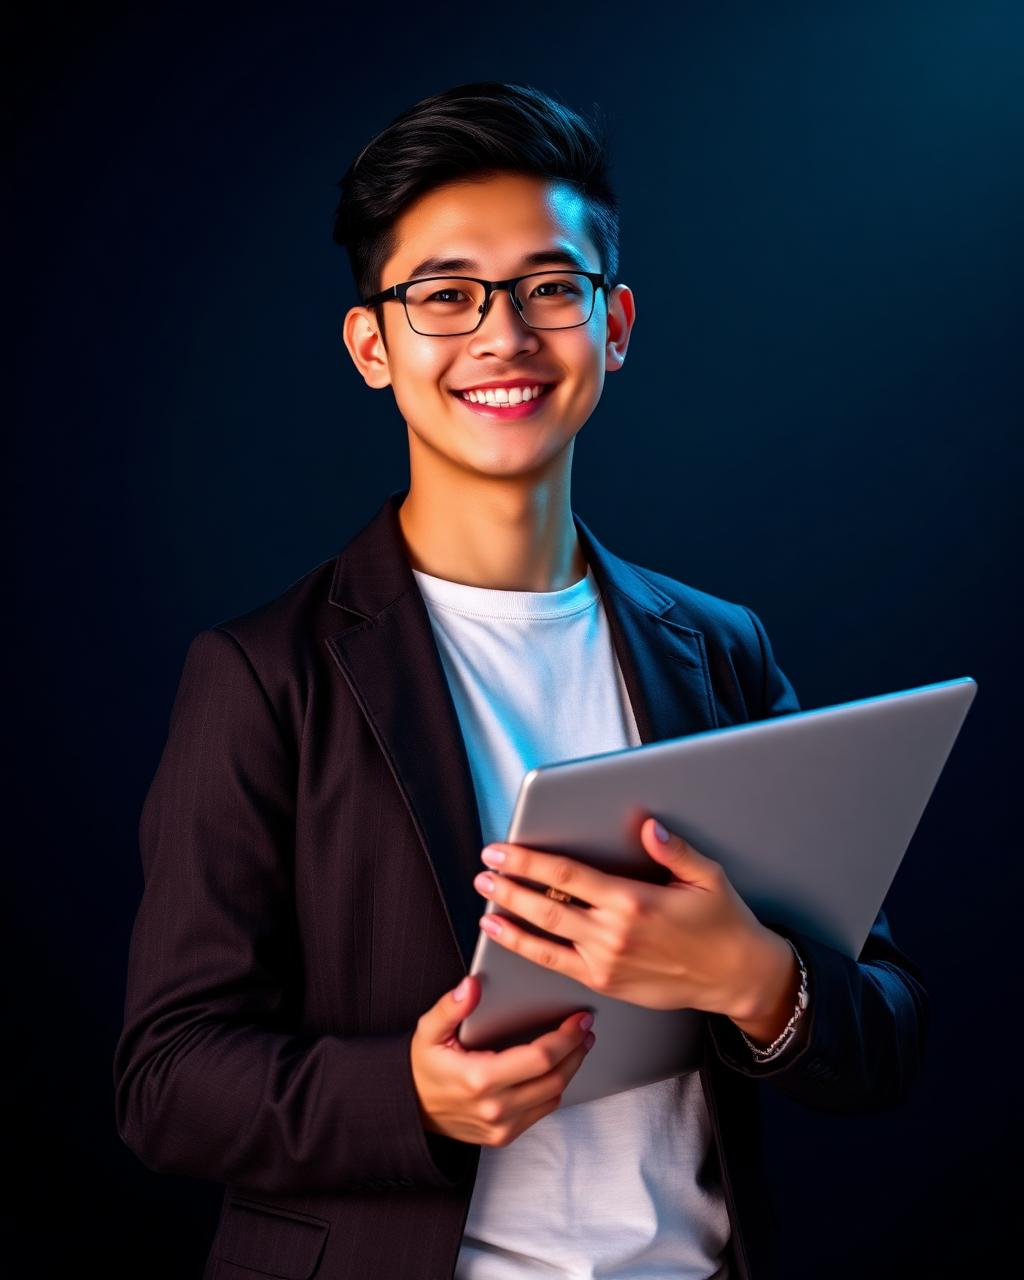
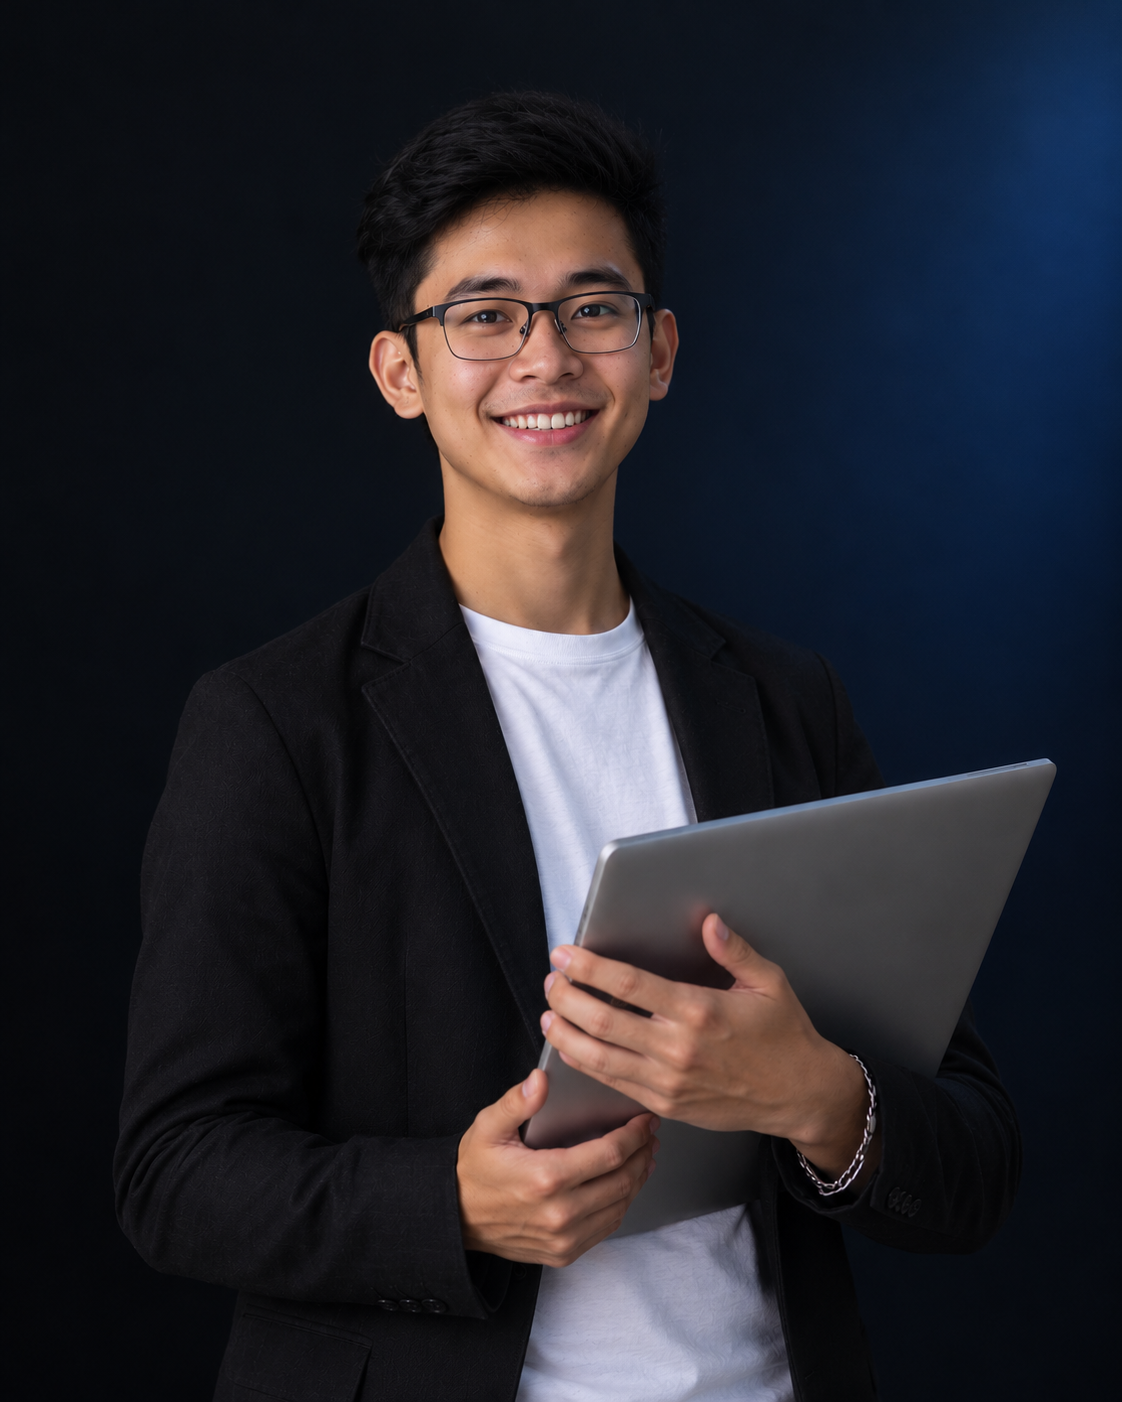
feat: real graduate photos with lightbox gallery in bitiruvchilar section

diff --git a/src/components/Projects.tsx b/src/components/Projects.tsx
@@ -1,49 +1,33 @@
-import { useState } from "react";
+import { useEffect, useState } from "react";
 import { useI18n } from "@/lib/i18n";
-import { Reveal, Stagger, Item, itemVariants } from "./Reveal";
-import { ArrowRight, X, Quote } from "lucide-react";
-import malika from "@/assets/malika.png";
-import azizbek from "@/assets/azizbek.png";
-import dilnoza from "@/assets/dilnoza.png";
-import sardor from "@/assets/sardor.png";
-import logoIcon from "@/assets/logo-icon.png";
+import { Stagger, Item, itemVariants } from "./Reveal";
+import { ArrowRight, X } from "lucide-react";
+import long from "@/assets/long.png";
+import long2 from "@/assets/long-2.png";
+import short from "@/assets/short.png";
+import short2 from "@/assets/short-2.png";
 
 const projects = [
-  {
-    id: 1,
-    img: malika,
-    tag: "Hozirda yirik ishlab chiqarish korxonasida bosh buxgalter",
-    title: "Malika Ahmedova",
-    review: "Finway Academy'da olgan bilimlarim hayotimni o'zgartirdi. Ustozlarim yordamida nafaqat nazariyani, balki amaliy buxgalteriyani ham mukammal o'rgandim. Hozirda yirik korxonada bosh buxgalter lavozimida ishlayapman."
-  },
-  {
-    id: 2,
-    img: azizbek,
-    tag: "1C dasturini mukammal o'rganib, xususiy firmada ish boshladi",
-    title: "Azizbek Karimov",
-    review: "1C dasturini o'rganish men uchun qiyin tuyulgandi, lekin bu yerda hammasi juda sodda tushuntirildi. Kursni tugatiboq ishga kirdim. Mentorlarga katta rahmat!"
-  },
-  {
-    id: 3,
-    img: dilnoza,
-    tag: "Noldan o'rganib, 3 oy ichida diplom va ishga ega bo'ldi",
-    title: "Dilnoza Mansurova",
-    review: "Buxgalteriya haqida hech qanday tushuncham yo'q edi. 3 oy ichida noldan balansgacha o'rgandim. Hozirda o'z ishimning ustasiman va yaxshi daromad topyapman."
-  },
-  {
-    id: 4,
-    img: sardor,
-    tag: "Super glavbux kursini bitirib, o'z konsaltingini ochdi",
-    title: "Sardor Olimov",
-    review: "Super glavbux kursi menga soliq optimallashtirish va murakkab hisob-kitoblarni o'rgatdi. O'z bilimlarimga ishonch hosil qilib, xususiy konsalting markazimni ochdim."
-  },
+  { id: 1, img: long, alt: "Finway bitiruvchisi 1", pos: "object-right" },
+  { id: 2, img: long2, alt: "Finway bitiruvchisi 2", pos: "object-center" },
+  { id: 3, img: short, alt: "Finway bitiruvchisi 3", pos: "object-center" },
+  { id: 4, img: short2, alt: "Finway bitiruvchisi 4", pos: "object-center" },
 ];
 
 export function Projects() {
   const { t } = useI18n();
-  const [selectedGrad, setSelectedGrad] = useState<number | null>(null);
+  const [selectedId, setSelectedId] = useState<number | null>(null);
 
-  const activeGrad = projects.find(p => p.id === selectedGrad);
+  const activeImage = projects.find(p => p.id === selectedId);
+
+  useEffect(() => {
+    if (selectedId === null) return;
+    const onKey = (e: KeyboardEvent) => {
+      if (e.key === "Escape") setSelectedId(null);
+    };
+    window.addEventListener("keydown", onKey);
+    return () => window.removeEventListener("keydown", onKey);
+  }, [selectedId]);
 
   return (
     <section id="projects" className="relative bg-card py-24 sm:py-32">
@@ -71,48 +55,18 @@ export function Projects() {
               <Item
                 key={p.id}
                 variants={itemVariants}
-                onClick={() => setSelectedGrad(p.id)}
+                onClick={() => setSelectedId(p.id)}
                 className={`group relative cursor-pointer overflow-hidden rounded-[2.5rem] bg-[#0c0c0c] h-80 sm:h-96 md:h-[400px] ${colSpan} border border-white/5`}
               >
-                {/* Brand Icon Background */}
-                <img 
-                  src={logoIcon} 
-                  alt="" 
-                  className="absolute left-1/2 top-1/2 -translate-x-1/2 -translate-y-1/2 w-3/4 opacity-[0.07] grayscale transition-transform duration-700 group-hover:scale-110 group-hover:rotate-12" 
-                />
-
-                {/* Glow Effect */}
-                <div 
-                  className="absolute left-1/2 top-1/2 -translate-x-1/2 -translate-y-1/2 w-48 h-48 rounded-full opacity-20 blur-[80px]"
-                  style={{ background: "var(--brand)" }}
-                />
-
                 <img
                   src={p.img}
-                  alt={p.title}
+                  alt={p.alt}
                   loading="lazy"
-                  className="relative z-10 h-full w-full object-cover object-center transition-transform duration-700 group-hover:scale-[1.03]"
-                />
-                
-                <div
-                  className="absolute inset-0 z-20"
-                  style={{
-                    background:
-                      "linear-gradient(to top, rgba(0,0,0,0.9) 0%, transparent 50%)",
-                  }}
+                  className={`h-full w-full object-cover ${p.pos} transition-transform duration-700 group-hover:scale-[1.03]`}
                 />
 
-                <div className="absolute right-6 top-6 z-30 grid h-12 w-12 shrink-0 place-items-center rounded-full border border-brand/40 text-brand backdrop-blur-md transition-all duration-300 group-hover:bg-white group-hover:text-brand group-hover:border-brand group-hover:scale-110">
+                <div className="absolute right-6 top-6 z-10 grid h-12 w-12 shrink-0 place-items-center rounded-full border border-brand/40 text-brand backdrop-blur-md transition-all duration-300 group-hover:bg-white group-hover:text-brand group-hover:border-brand group-hover:scale-110">
                   <ArrowRight className="h-5 w-5 -rotate-45" />
-                </div>
-
-                <div className="absolute inset-x-0 bottom-0 z-30 p-8 sm:p-10 text-white">
-                  <h3 className="font-display text-2xl font-bold tracking-tight sm:text-3xl">
-                    {p.title}
-                  </h3>
-                  <p className="mt-2 max-w-xs text-sm text-white/60 font-medium">
-                    {p.tag}
-                  </p>
                 </div>
               </Item>
             );
@@ -120,53 +74,25 @@ export function Projects() {
         </Stagger>
       </div>
 
-      {/* Modal */}
-      {selectedGrad && activeGrad && (
-        <div className="fixed inset-0 z-[100] flex items-center justify-center p-4 sm:p-6">
-          <div className="absolute inset-0 bg-background/80 backdrop-blur-md" onClick={() => setSelectedGrad(null)} />
-          <Reveal className="relative w-full max-w-3xl overflow-hidden rounded-[2.5rem] border border-border bg-card shadow-2xl">
-            <button
-              onClick={() => setSelectedGrad(null)}
-              className="absolute right-6 top-6 z-10 grid h-10 w-10 place-items-center rounded-full bg-tint transition-colors hover:bg-brand/10"
-            >
-              <X className="h-5 w-5" />
-            </button>
-
-            <div className="grid grid-cols-1 md:grid-cols-2">
-              <div className="relative h-64 md:h-full min-h-[300px] bg-[#0c0c0c] overflow-hidden">
-                {/* Brand Icon Background */}
-                <img 
-                  src={logoIcon} 
-                  alt="" 
-                  className="absolute left-1/2 top-1/2 -translate-x-1/2 -translate-y-1/2 w-3/4 opacity-[0.05] grayscale" 
-                />
-
-                {/* Glow Effect */}
-                <div 
-                  className="absolute left-1/2 top-1/2 -translate-x-1/2 -translate-y-1/2 w-48 h-48 rounded-full opacity-20 blur-[80px]"
-                  style={{ background: "var(--brand)" }}
-                />
-
-                <img src={activeGrad.img} alt={activeGrad.title} className="relative z-10 h-full w-full object-cover object-center" />
-                <div className="absolute inset-0 z-20 bg-gradient-to-t from-card/80 to-transparent md:hidden" />
-              </div>
-              <div className="flex flex-col justify-center p-8 sm:p-12">
-                <Quote className="h-10 w-10 text-brand opacity-20" style={{ color: "var(--brand)" }} />
-                <h3 className="mt-4 font-display text-3xl font-bold">{activeGrad.title}</h3>
-                <p className="mt-1 text-sm font-medium text-foreground/60">{activeGrad.tag}</p>
-                <p className="mt-6 text-base leading-relaxed text-foreground/70 italic">
-                  "{activeGrad.review}"
-                </p>
-                <button
-                  onClick={() => setSelectedGrad(null)}
-                  className="mt-10 rounded-xl bg-brand py-3.5 text-sm font-bold text-primary-foreground shadow-lg transition-transform hover:scale-[1.02]"
-                  style={{ background: "var(--brand)", boxShadow: "var(--glow-brand)" }}
-                >
-                  Yopish
-                </button>
-              </div>
-            </div>
-          </Reveal>
+      {/* Lightbox */}
+      {activeImage && (
+        <div
+          className="fixed inset-0 z-[100] flex items-center justify-center bg-black/85 p-4 backdrop-blur-md sm:p-6 animate-in fade-in duration-200"
+          onClick={() => setSelectedId(null)}
+        >
+          <img
+            src={activeImage.img}
+            alt={activeImage.alt}
+            onClick={(e) => e.stopPropagation()}
+            className="relative z-10 w-[min(92vw,860px)] max-h-[85vh] rounded-2xl object-contain shadow-2xl animate-in fade-in zoom-in-95 duration-300"
+          />
+          <button
+            onClick={() => setSelectedId(null)}
+            aria-label="Yopish"
+            className="absolute right-5 top-5 z-20 grid h-11 w-11 place-items-center rounded-full border border-white/15 bg-white/10 text-white backdrop-blur-md transition-colors hover:bg-white/20"
+          >
+            <X className="h-5 w-5" />
+          </button>
         </div>
       )}
     </section>
